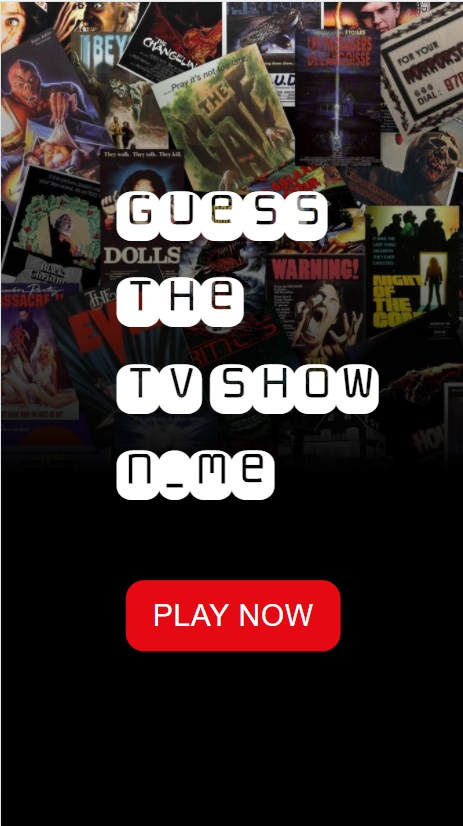
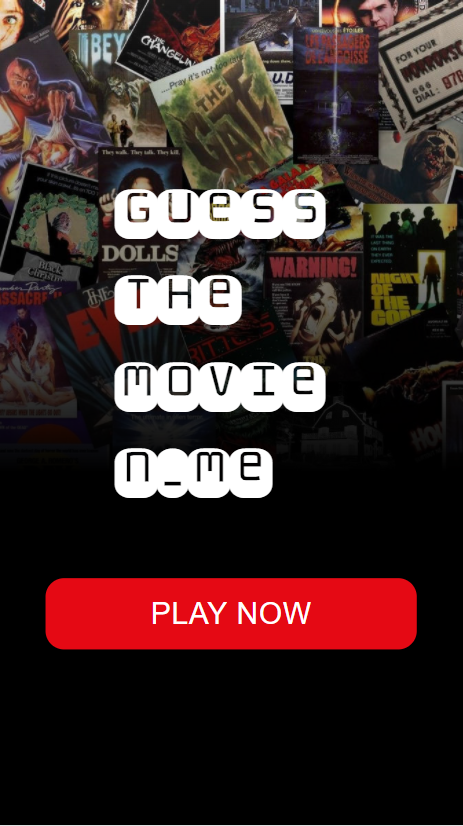
update README.md

diff --git a/src/App.tsx b/src/App.tsx
@@ -4,9 +4,9 @@ import StartGameButton from "./game/components/buttons/start-game-button/StartGa
 import { useContext, useEffect, useState } from "react";
 import Game from "./game/Game";
 import GameOver from "./components/game-over/GameOver";
-import getTvShow from "./utils/getTvShow";
+import getMovie from "./utils/getMovie";
 import hideString from "./utils/hideString";
-import { StatusTypes, MessageTypes, GameOverTypes } from "./types/types";
+import { StatusTypes, MessageTypes, GameOverTypes, Movie } from "./types/types";
 const App = () => {
   const { state, setState } = useContext(AppContext);
   const [hintOpen, setHintOpen] = useState(false);
@@ -14,32 +14,34 @@ const App = () => {
   const [message, setMessage] = useState(MessageTypes.noMessage);
   useEffect(() => {
     fetch(
-      "https://api.themoviedb.org/3/tv/top_rated?api_key=8df65f7dc852b216b40bf6ab3cabb73c&language=en-US&page=1"
+      "https://api.themoviedb.org/3/movie/top_rated?api_key=8df65f7dc852b216b40bf6ab3cabb73c&language=en-US&page=1&region=US"
     )
       .then((response) => response.json())
-      .then((data) => {
-        const tvShows = data.results;
-        return tvShows;
+      .then(({ results }) => {
+        const movies = results.filter((result: Movie) => {
+          return result.original_language === "en";
+        });
+        return movies;
       })
-      .then((tvShows) => {
+      .then((movies) => {
         setState({
           ...state,
-          currentTvShow: getTvShow(tvShows),
-          tvShows: tvShows,
+          currentMovie: getMovie(movies),
+          movies: movies,
         });
       });
   }, []);
   useEffect(() => {
-    if (state.currentTvShow) {
+    if (state.currentMovie) {
       setState({
         ...state,
-        hiddenString: hideString(state.currentTvShow.name),
+        hiddenString: hideString(state.currentMovie.title),
       });
       setHintOpen(false);
       setHintTaken(false);
       setMessage(MessageTypes.noMessage);
     }
-  }, [state.currentTvShow]);
+  }, [state.currentMovie]);
   return (
     <>
       {state.status === StatusTypes.preGame && <StartGameButton />}
@@ -56,7 +58,7 @@ const App = () => {
       {state.status === StatusTypes.gameOver && (
         <GameOver
           message={
-            state.tvShows.length > 1
+            state.movies.length > 1
               ? GameOverTypes.looser
               : GameOverTypes.winner
           }

diff --git a/src/game/components/buttons/start-again-button/StartAgainButton.tsx b/src/game/components/buttons/start-again-button/StartAgainButton.tsx
@@ -1,28 +1,30 @@
 import { StyledStartAgainButton } from "./StartAgianButton.styled";
 import { useContext } from "react";
 import { AppContext, initialAppState } from "../../../../context/AppContext";
-import { StatusTypes } from "../../../../types/types";
-import getTvShow from "../../../../utils/getTvShow";
+import { Movie, StatusTypes } from "../../../../types/types";
+import getMovie from "../../../../utils/getMovie";
 import hideString from "../../../../utils/hideString";
 
 const StartAgainButton = () => {
   const { state, setState } = useContext(AppContext);
   const handleStartAgain = () => {
     fetch(
-      "https://api.themoviedb.org/3/tv/top_rated?api_key=8df65f7dc852b216b40bf6ab3cabb73c&language=en-US&page=1"
+      "https://api.themoviedb.org/3/movie/top_rated?api_key=8df65f7dc852b216b40bf6ab3cabb73c&language=en-US&page=1&region=US"
     )
       .then((response) => response.json())
       .then(({ results }) => {
-        const tvShows = results;
-        return tvShows;
+        const movies = results.filter((result: Movie) => {
+          return result.original_language === "en";
+        });
+        return movies;
       })
-      .then((tvShows) => {
-        const tvShow = getTvShow(tvShows);
+      .then((movies) => {
+        const movie = getMovie(movies);
         setState({
           ...initialAppState,
-          tvShows: tvShows,
-          currentTvShow: tvShow,
-          hiddenString: hideString(state.currentTvShow!.name),
+          movies: movies,
+          currentMovie: movie,
+          hiddenString: hideString(state.currentMovie!.title),
           status: StatusTypes.playing,
         });
       });

diff --git a/src/game/components/buttons/check-guess-button/CheckGuessButton.tsx b/src/game/components/buttons/check-guess-button/CheckGuessButton.tsx
@@ -2,7 +2,7 @@ import React, { useContext, FC } from "react";
 import { ButtonProps } from "@mui/material";
 import { Grid } from "@mui/material";
 import { AppContext } from "../../../../context/AppContext";
-import getTvShow from "../../../../utils/getTvShow";
+import getMovie from "../../../../utils/getMovie";
 import { StatusTypes, MessageTypes } from "../../../../types/types";
 import GameActionButton from "../../../../components/game-action-button/GameActionButton";
 
@@ -20,8 +20,8 @@ const CheckGuessButton: FC<CheckGuessButtonProps> = ({
 }) => {
   const { state, setState } = useContext(AppContext);
   const handleGuess = () => {
-    if (guess === state.currentTvShow!.name) {
-      if (state.tvShows.length === 1) {
+    if (guess === state.currentMovie!.title) {
+      if (state.movies.length === 1) {
         setState({ ...state, status: StatusTypes.gameOver });
       } else {
         setMessage(MessageTypes.niceJob);
@@ -30,10 +30,10 @@ const CheckGuessButton: FC<CheckGuessButtonProps> = ({
           setState({
             ...state,
             guessedRight: state.guessedRight + 1,
-            tvShows: state.tvShows.filter((tvShow) => {
-              return tvShow.name !== state.currentTvShow!.name;
+            movies: state.movies.filter((movie) => {
+              return movie.title !== state.currentMovie!.title;
             }),
-            currentTvShow: getTvShow(state.tvShows),
+            currentMovie: getMovie(state.movies),
           });
           setMessage(MessageTypes.noMessage);
         }, 500);

diff --git a/src/types/types.ts b/src/types/types.ts
@@ -1,21 +1,21 @@
-export interface Show {
-  backdrop_path: string | null;
-  first_air_date: string;
+export interface Movie {
+  poster_path: string;
+  adult: boolean;
+  overview: string;
+  release_date: string;
   genre_ids: number[];
   id: number;
-  name: string;
-  origin_country: string[];
+  original_title: string;
   original_language: string;
-  original_name: string;
-  overview: string;
-  popularity: number;
-  poster_path: string;
-  vote_average: number;
+  title: string;
+  backdrop_path: string | null;
   vote_count: number;
+  video: boolean;
+  vote_average: number;
 }
 
-export type CurrentShow = {
-  name: string;
+export type CurrentMovie = {
+  title: string;
   overview: string;
 };
 
@@ -39,8 +39,8 @@ export enum StatusTypes {
 }
 
 export interface AppState {
-  tvShows: Show[];
-  currentTvShow: { name: string; overview: string } | undefined;
+  movies: Movie[];
+  currentMovie: { title: string; overview: string } | undefined;
   hiddenString: string[] | undefined;
   guessedRight: number;
   guessedWrong: number;

diff --git a/src/game/Game.tsx b/src/game/Game.tsx
@@ -65,7 +65,7 @@ const Game: FC<GameProps> = ({
         />
         <StatisticsButton onClick={toggleStats} />
       </ButtonsGrid>
-      {hintOpen && <Hint hintText={state.currentTvShow?.overview} />}
+      {hintOpen && <Hint hintText={state.currentMovie?.overview} />}
       <StatisticsAlert
         open={statsOpen}
         openHandler={toggleStats}

diff --git a/src/utils/getMovie.tsx b/src/utils/getMovie.tsx
@@ -1,0 +1,11 @@
+import { Movie, CurrentMovie } from "../types/types";
+
+const getMovie = (moviesArray: Movie[]): CurrentMovie => {
+  const randomNum = Math.floor(Math.random() * moviesArray.length);
+  return {
+    title: moviesArray[randomNum].title,
+    overview: moviesArray[randomNum].overview,
+  };
+};
+
+export default getMovie;

diff --git a/src/context/AppContext.tsx b/src/context/AppContext.tsx
@@ -2,8 +2,8 @@ import React, { createContext, useState } from "react";
 import { AppState, StatusTypes } from "../types/types";
 
 export const initialAppState: AppState = {
-  tvShows: [],
-  currentTvShow: undefined,
+  movies: [],
+  currentMovie: undefined,
   hiddenString: undefined!,
   guessedRight: 0,
   guessedWrong: 0,

diff --git a/src/game/components/header/Header.tsx b/src/game/components/header/Header.tsx
@@ -3,7 +3,7 @@ const Header = () => {
   return (
     <HeaderBox>
       <StyledText variant="h1">Guess the </StyledText>
-      <StyledText variant="h1"> TV show n_me</StyledText>
+      <StyledText variant="h1"> movie n_me</StyledText>
     </HeaderBox>
   );
 };

diff --git a/README.md b/README.md
@@ -1,4 +1,4 @@
-# Guess the TV show name
+# Guess the movie name
 
 Deployed on Netlify : https://guess-the-tvshow.netlify.app/
 
@@ -8,17 +8,17 @@ I have built this project as a challange after learning TypeScript to implement 
 
 ## Description
 
-The goal of the game is to guess a TV show name.
-The player sees a TV show name with missing letters and should guess and fill the given TV show name,If the guess is successfull,the player gets a point and if not looses a life point
+The goal of the game is to guess a movie title.
+The player sees a movie name with missing letters and should guess and fill the given movie name,If the guess is successfull,the player gets a point and if not looses a life point
 The player has 3 life point,if the player lost all life points the game is over and can be started again.
-A "HINT" button can be pressed to get a hint regarding the TV show the player is stuck on
+A "HINT" button can be pressed to get a hint regarding the movie the player is stuck on
 .
 
 ## API used
 
 https://developers.themoviedb.org
 fetched the data from:
-https://developers.themoviedb.org/3/tv/get-top-rated-tv
+https://api.themoviedb.org/3/movie/top_rated
 
 ## Technologies used
 
